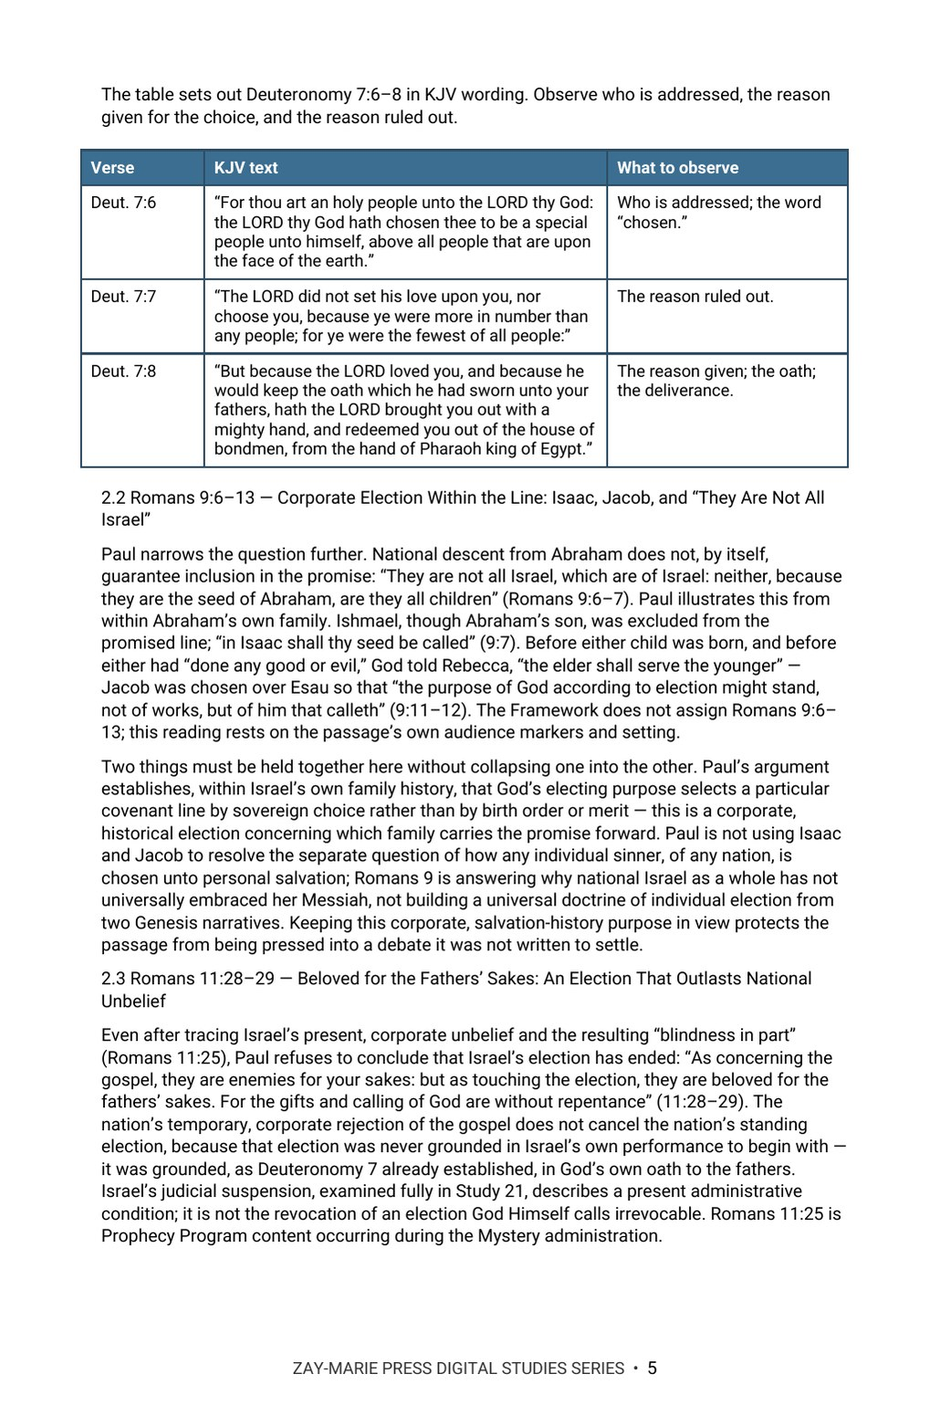
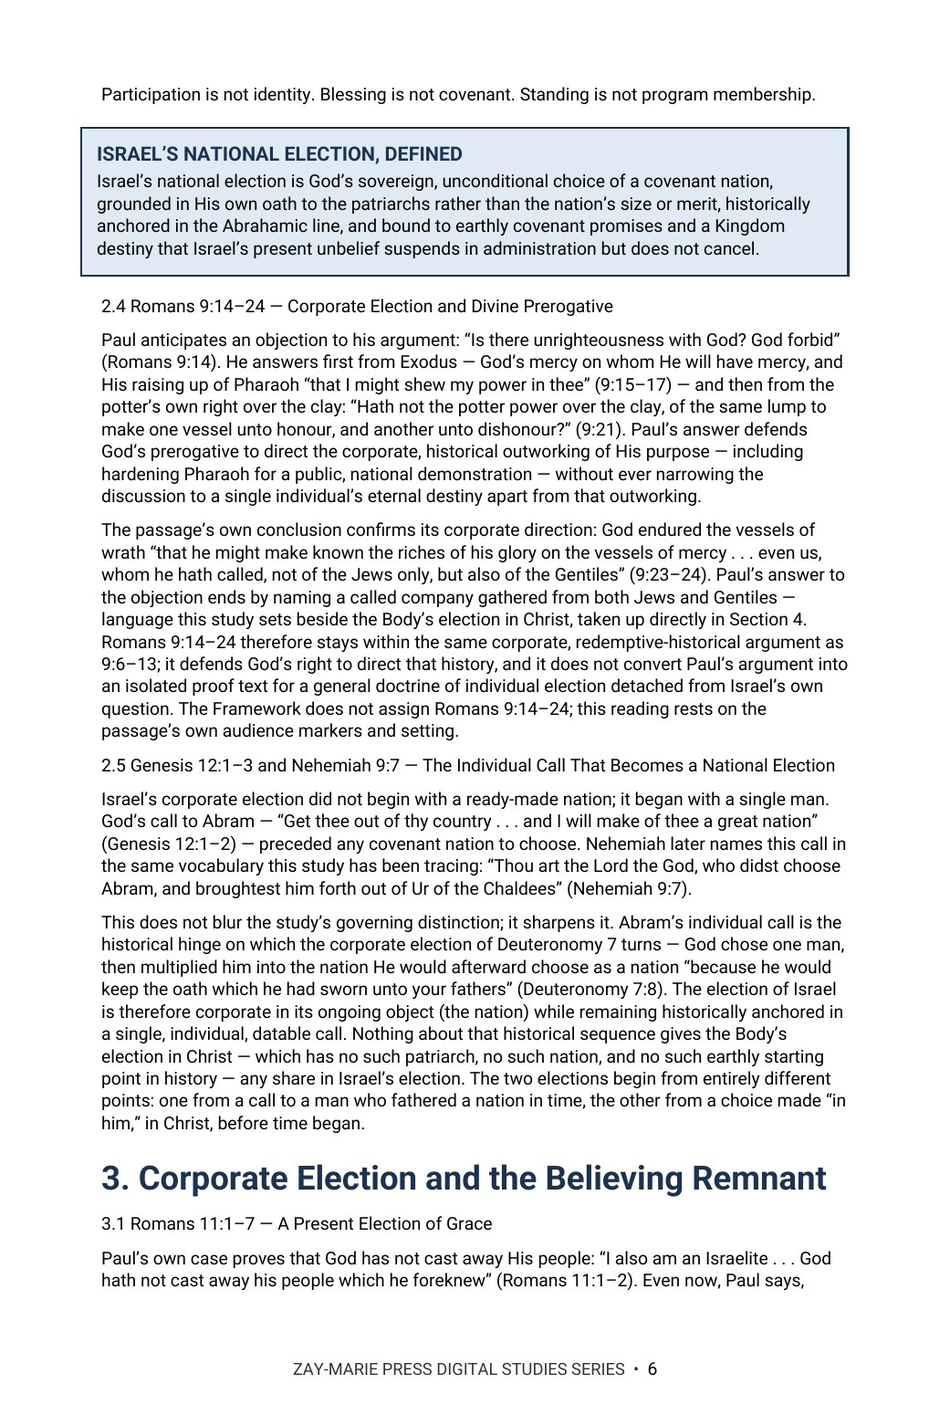
Study 50 retrofit: Romans 11 boundaries, standing sentences; preview page 5 re-rendered
Claude-Session: https://claude.ai/code/session_013kzJPyMkodVfrxEZGjk3me

Changed region(s): [[0.0615, 0.0615, 0.8915, 0.9219], [0.3074, 0.9526, 0.4918, 0.9834], [0.5226, 0.9526, 0.6455, 0.9834]]

diff --git a/CLAUDE.md b/CLAUDE.md
@@ -14,7 +14,7 @@ These are kept in the repo at `controlling-documents/` and are the current versi
 - **`controlling-documents/Zay-Marie_Press_Digital_Studies_Master_Standard_v1.43.pdf`** — Master Standard v1.43 (an editable `.docx` copy sits beside the PDF). Governs study structure, cover, PDF assembly, website package and publication (includes §16 Individual Study Preview Selection Standard). §16 fixes the preview set at exactly three pages: Table of Contents, What You Will Learn, and one further page of real substance that does not give away the study's thesis. As of v1.19, §2 (Forward Cover System) adds a Cover Art Brief step: Claude drafts a detailed written cover art description (image concept, composition, palette, lighting, symbolic content) for the publisher to hand to the illustrator, before the illustrator produces artwork — see Approval Checkpoint 3 below. As of v1.20, §6 (Body-Content Standard) fixes exact interior spacing values: body paragraphs 6pt space-after / 0pt space-before / 1.08 line spacing; Heading 1 14pt space-before / 8pt space-after; Heading 2 10pt space-before / 5pt space-after. As of v1.21, §9 (Content-Depth and Page-Length Standard) fixes the substantive-interior page count at exactly 15 pages, replacing the prior 13–17 page range; matching references updated in the Page-Count Control note (§3) and Stages 2 and 4 of the Study Development and Approval Workflow (§14). As of v1.22, §18 (About This Study — Related-Study Distinction Standard, originally added as §17 and renumbered by v1.24) requires a second paragraph in every study's About This Study section, placed before the "How These Studies Relate" box: it names the specific neighbouring studies a reader might confuse this one with, states what ground each one covers that this study doesn't (or vice versa), and closes with the single narrower question this study alone answers — see the "About This Study" bullet below. Governs new studies going forward; existing studies get it when reopened or when the publisher directs a retrofit. As of v1.23, §13 (Tables Symbols and Contrast Standard) changes the table-header treatment from dark navy to Slate Blue (#3B6E91) with high-contrast light text retained; the border-color cross-reference in the same section is updated to match. Applies to all studies going forward. As of v1.24, new §17 (Preview-Page Interpretive-Outcome Standard) codifies the publisher's 2026-09-28 preview-page conclusion-spoiler directive (see the section below) as a Master Standard requirement: preview pages must state interpretive outcomes and name the textual markers the reader will trace, never the study's doctrinal conclusion. Adding it renumbered the former §17/§18/§19 to §18 (About This Study), §19 (Locked Status), and §20 (Version History). As of v1.25 (publisher directive, 2026-09-28), §5 (Table of Contents Standard) requires Arabic numerals only — Roman numerals are never used in a Table of Contents — and a single flat list on one left-aligned axis: What You Will Learn in This Study, Introduction, the teaching sections numbered exactly as in the body, then Conclusion through Final Synthesis; Study Goal and Study Outline are not TOC entries. As of v1.26 and v1.27 (publisher directive, 2026-09-30), §8 (renamed Color and Typography Control) carries the Interior Typeface Standard: every Digital Study interior and Doctrinal Packet, headings included, is set in **Roboto** in four true faces (Regular, Italic, Bold, Bold Italic; static files; lining numerals), with no other or fallback font embedded. v1.26 first specified EB Garamond; the publisher replaced it with Roboto in v1.27 after a Study 2 test build. It applies to all studies past, present and future, and to Doctrinal Packets; Stages 3 and 4 of §14 require it and a `pdffonts` check. Existing studies move to it when reopened or when the publisher directs. The static Roboto files and the build recipe are in `fonts/` (see `fonts/README.md`); the Framework carries the rule as PAM Rule 6 and a dated Section 4 (continued) entry. The v1.26/v1.27 files were rebuilt from the publisher's v1.13 DOCX (Sections 1–2) plus the v1.25 text. As of v1.28 (publisher directive, 2026-09-30): §4 requires exactly five callouts per study, all boxed (light-blue box, 1 pt dark navy border, bold uppercase navy title; extra source callouts become body paragraphs with a bold run-in lead, wording unchanged); §10 places the copyright notice only in the end imprint, with no front copyright page; §13 makes table body rows plain white under Slate Blue headers. As of v1.29 (publisher directive, 2026-09-30), §5 sets Table of Contents entries at the body-paragraph spacing (6 pt after, 1.08 line spacing) as first shown in Study 5, for studies built from Study 6 forward; Studies 1–5 and 9 keep their current TOC spacing unless reopened. As of v1.30 (publisher directive, 2026-09-30), §6 sets Heading 1 (numbered major sections) at 12 pt space-before and 8 pt space-after, replacing 14 pt space-before, as compared side by side on Study 6 page 5; it applies to studies built from Study 6 forward, and Studies 1–5 and 9 (built at 14 pt) are not reopened for it. Heading 2 (10/5) and body paragraphs (6 pt after, 1.08) are unchanged. As of v1.31 (publisher directive, 2026-10-01), new §19 (Catalog Category Standard) fixes the five catalog categories, the ordered decision procedure, the precedents, the 71 final assignments and the cover-label forms (working copy and version history in `controlling-documents/Digital_Studies_Category_Standard_v1.1.md`); Locked Status and Version History moved to §20 and §21. As of v1.32 (publisher directive, 2026-10-01), the upper-right cover label must be the exact name of the study's catalog category (§2 Cover Architecture and §19 Cover Labels); the shortened and legacy labels RIGHT DIVISION, PROPHECY, DOCTRINE, INTERPRETATION and BIBLICAL DOCTRINE are retired and all 71 covers were re-lettered. As of v1.33 (publisher directive, 2026-10-01), new §20 (Doctrinal Drafting Standard) carries PAM Rules 7–10 from the Framework so settled rulings are applied without being asked again: identity wording ("the Israel of God" = believing Jews within the Body, Israel by identity; never "believing Israel" alone; never a remnant beside or outside the Body in the present administration; required clarifier "This speaks of identity, not program membership; the remnant is ethnic-covenantal, and believing Jews are gathered into the Body during the Mystery administration"; Gentiles participate spiritually, never called Israel or "spiritual Israel"); the anchoring-sentence rule for books the PAM does not assign (Hebrews, Revelation, James, 1 Peter, 2 John; Philippians, 1 Thessalonians, 2 Timothy; Gal 2:1–10 report-only); standing wording for the Acts divisions, "the 'one taken, one left' passages", Eph 2:14 "abolished for the Body", judgment and related rulings; and the review procedure (conforming wording is applied and noted in one line, and only a new or uncovered passage is reported for a ruling). Locked Status and Version History moved to §21 and §22. As of v1.34 (publisher directive, 2026-10-01), Rule 7 adds the overlap-period rule: Peter's believing company and the circumcision apostleship during Acts 9–28 may be described as continuing under the Prophecy Program only with the clarification "During the overlap, the circumcision apostleship ministers to Israel under the Prophecy Program; believing Jews are gathered into the Body through Paul's ministry, and this speaks of identity, not program membership" (program membership and corporate identity are not the same question; no believing Israelite is placed outside the Body after Acts 9). As of v1.35 (publisher directive, 2026-10-01), §20 adds Rule 11: Paul's fillings, signs and miraculous events in Acts 9–28 are overlap phenomena, reported from the text and not assigned to a single program; they occur in settings shaped by Israel's Prophecy Program, but Paul's participation does not convert them into Prophecy Program content or make them Mystery content (standing wording: "These are recorded in settings shaped by Israel's Prophecy Program, which remained operative throughout Acts 9–28 even as the Mystery Program began. Acts 9–28 is the overlap; where Paul or his companions are the ones filled or working signs, the study reports the text and does not assign the event to a single program."; Acts table column title "The Spirit's Activity Recorded in Acts"; speaker identity is not program identity, and historical participation is not doctrinal obligation). Rule 10 refers to Rules 1–9 and 11. As of v1.36 (publisher directive, 2026-10-01), §20 adds Rule 12: where the PAM does not assign a book or passage, the study may use the text for universal doctrinal truth without assigning the book to a program, and must include the anchoring sentence "The Framework does not assign this book; this reading rests on the passage's own audience markers and setting." (it extends Rule 8 to unassigned books and passages Rule 8 does not name); Rule 10 refers to Rules 1–9, 11 and 12. As of v1.43 (publisher directive, 2026-10-02), §20 Rule 14 adds the **reader-facing wording rule** (also written into Framework Rule 14): "firewall," "Olive Tree Firewall" and similar control labels are internal drafting terms and never appear in study text, website copy or Doctrinal Packets; studies state the boundaries in plain language (for example "Four boundaries govern the reading:"), and any term a study has not itself introduced and defined is treated the same way. Studies 9, 13, 35 and 36 were corrected on 2026-10-02. As of v1.42 (publisher directive, 2026-10-02), §20 Rule 14 adds the **Romans 11 Strong Firewall** as a standing rule for every Romans 11 treatment in every study (also written into Framework Rule 14): Romans 11 explains prophetic participation, not corporate identity, covenant membership or Mystery formation; the wild branch does not become Israel, enter Israel's covenants or become a natural branch; the olive tree is not the Body; standing triad "Participation is not identity. Blessing is not covenant. Standing is not program membership."; "Identity is fixed by divine program, not by metaphor."; "Salvation has come to the Gentiles" means salvation, not covenant, prophetic identity or Israel's program; four-point governing list (olive tree = prophetic blessing; Romans 11 Gentiles = prophetic participants; wild branches are not Body members; grafting changes participation, not identity); warning line on identity transfer; concurrency close ("Concurrency is operational, not transformational."). Depth: a study that treats Romans 11 at length carries the full firewall in the voice of Study 13 v2 (the reference text); a passing citation carries at least the four-point list and the triad; a mild clarification is not sufficient. Studies 9, 21, 35, 36 and others are brought to it when reopened or when the publisher directs. As of v1.41 (publisher directive, 2026-10-02), Rules 7 and 15 carry two approved standing sentences for the retrofit: overlap — "During the overlap, the circumcision apostleship ministers to Israel under the Prophecy Program, and Paul's gospel forms the Body; the two operate concurrently and never merge, transfer or absorb one another." (replaces the withdrawn "gathered into the Body" sentence); Galatians 3 — "The seed is prophetic fulfillment in Christ; the Body receives blessing through Christ alone, not through participation in the Abrahamic covenant." (replaces all older Abrahamic-participation language). As of v1.40 (publisher directive, 2026-10-02), Rules 7 and 17 add the ruling that a Jewish member of the Body is not Israel: Body by identity, new creation by ontology, non-Israel by corporate identity, non-prophetic by program membership, non-covenantal by blessing structure, heavenly by destiny; ethnicity is a historical fact with no covenantal or programmatic force once a person is in the Body. The Rule 7 line "Israel remains Israel; the ethnic distinction is kept" is replaced by "Israel remains Israel, and the Body is not Israel"; the Framework identity sections (§V, PAM definition 2) carry it too. As of v1.39 (publisher directive, 2026-10-02), §20 adds Rule 17 (The remnant and the Body during Acts 9–28), also written into the Framework §XIX: the remnant never becomes the Body and stays outside the Body, the Mystery Program, the heavenly calling and Pauline identity; the Body is formed only by Paul's gospel from Acts 9, is gathered in on belief and is not Israel or the remnant; no shared identity, membership, covenant, gospel, hope, Spirit ministry or destiny; the standing summary sentence ("During Acts 9–28, the remnant remains Israel's prophetic believing company, and the Body remains the Mystery new creation. They coexist historically but never merge in identity, membership, calling, covenant, gospel, hope, or destiny. Concurrency is operational, not transformational.") and the one-sentence relationship rule are used wherever the relationship is stated; Rule 10 now reads "Rules 1–9 and 11–17". As of v1.38 (publisher directive, 2026-10-02), §20 (Doctrinal Drafting Standard) is amended and extended to carry the Framework's doctrinal upgrade: Rules 7–10 are rewritten and Rules 13–16 are added (see the Framework entry above for the points and the withdrawn wordings); Rule 10 now reads "Rules 1–9 and 11–16"; Rule 8 no longer lists Revelation as unassigned. As of v1.37 (publisher directive, 2026-10-02), a new "Study 52 Reference Standard" subsection in §6 makes Study 52 (Sonship and Adoption) the **golden standard** for the format, structure and blue/black type balance of every Digital Study from Study 53 forward: navy (#1B3350) only on major-section headings (Roboto Bold 17 pt), callout titles (10 pt bold caps) and the "Study Outline" sub-heading (12 pt bold); everything else black Roboto Regular 9 pt; numbered subsections (1.1, 1.2 …) are body-weight black lines at body spacing, not navy headings (as in Studies 50, 51 and 52); about 1–2% of interior characters navy; the section order, five boxed callouts, KJV tables (Verse / KJV text / What to observe), Scripture-Tracing, Review, Teaching Outline, Guided Further Study, Final Synthesis and single end imprint on a 16-page build. Studies 1–51 are NOT retrofitted and stay as published; build every new study to Study 52's final approved PDF/DOCX as the visual reference, and do not set subsections in navy. The §6 Heading 2 line was clarified (10/5 applies to unnumbered sub-headings such as "Study Outline"). See §22 Version History in the document itself.
 - **`controlling-documents/Digital_Studies_Relationship_Map_v1.39.md`** — records each study's distinct subject, its related studies, the eight priced six-study collections, the Paul's Missionary Journeys cross-reference map, and the five primary catalog categories (currently version 1.39, covers Studies 1–71; update it as new studies publish, bump the version number, rename the file to match, and log the change in its own version-history table — mirroring the Master Standard's `_vX.Y` filename convention). Check a proposed topic against it before recommending or writing a new study. (2026-09-28: the file was missing from this repo despite this note referencing it; replaced from the publisher's copy and bumped v1.15→v1.25 in the same pass. If this note ever again points to a version not present under `controlling-documents/`, ask the publisher for a copy rather than proceeding without the check.)
 - **`controlling-documents/Digital_Studies_Category_Standard_v1.1.md`** — FINAL and binding (publisher, 2026-10-01): the rules for the five primary catalog categories (Foundations, Israel & Prophecy, Body of Christ, Passages, Doctrinal Themes), the ordered decision procedure for new studies, the precedents, all 71 fixed assignments, and the cover-label form for each category. Read it before placing any card or cover label. Do not ask the publisher where a study belongs; apply the procedure and state the result. Only the publisher changes a ruling; then bump this Standard's version and filename, re-letter the cover, and update the Relationship Map.
-- **`controlling-documents/Doctrinal_Upgrade_Retrofit_Plan_v1.13.md`** — working tracker for retrofitting Studies 1–59 to the 2026-10-02 doctrinal upgrade (Framework/PAM v1.1, Master Standard v1.40, Rules 7–17): withdrawn-wording search keys, impact tiers, waves and the per-study method. Read it before continuing the retrofit in any session; update status, bump the version and rename the file as work proceeds.
+- **`controlling-documents/Doctrinal_Upgrade_Retrofit_Plan_v1.14.md`** — working tracker for retrofitting Studies 1–59 to the 2026-10-02 doctrinal upgrade (Framework/PAM v1.1, Master Standard v1.40, Rules 7–17): withdrawn-wording search keys, impact tiers, waves and the per-study method. Read it before continuing the retrofit in any session; update status, bump the version and rename the file as work proceeds.
 - **`controlling-documents/Doctrinal_Packet_Standard_v0.3.md`** — Doctrinal Packet Standard (DRAFT; §7 approved). Governs the separate Doctrinal Packets product strand (5-page interpretive PDFs per Bible book — a print-friendly cover as page 1 plus 4 content pages, $2.99, KJV, pilot: Genesis, live at `packet-genesis.html`, hub `doctrinal-packets.html`; site pages say "5 Pages", cover styles live in `packets.css`, Old Testament blue and New Testament soft pale green, hub listed in Bible order). **Preview rule (publisher directive, 2026-09-29, packets only):** previews show about one page's worth in two cropped views (top of page 1 through the anchor texts; the chart section) — never the exegesis, architecture, Mystery contrast, logic chain, outline, or closing. Master Standard §16/§17 still govern Digital Studies. Bump the version and rename the file as the Standard is finalized.
 - **`controlling-documents/Preview_Page_Spoiler_Retrofit_Audit_v1.4.md`** — working tracker for the Studies 1–60 preview-page conclusion-spoiler retrofit (see the section below). Read it before continuing that audit in any session; update its status fields and changelog, bump the version, and rename the file to match as the audit proceeds — same `_vX.Y` convention as the other controlling documents. As of v1.1, the website-side half was DONE: all 60 studies' "What You'll Study" text was judged against the rule (methodology documented in the file) and 22 points across 11 studies were rewritten and pushed; an unrelated Study 22 content bug (Study 21's content had leaked into it) was also found and fixed. As of v1.2, the publisher supplied Studies 1–60's interior production PDFs and the interior-PDF half was also surveyed (read-only): 10 studies (37, 41, 45, 47, 48, 49, 51, 52, 53, 54) were found to have at least one interior "What You Will Learn" violation, 50 studies were confirmed compliant, and the orphaned `assets/study-45-sanctification-under-grace.docx` (removed from the repo per the publisher in v1.0) was confirmed word-for-word identical to Study 45's actual production interior PDF content. As of v1.3, the publisher supplied editable DOCX sources for all 10 violating studies; all 15 violating points were rewritten and approved, delivered as corrected final PDFs, and — along the way — a second defect was found and fixed (Studies 47 and 48's source DOCX still had an unintegrated cover placeholder despite both being long-published live with real covers; fixed by inserting the existing approved cover art). The website's "What You Will Learn" preview image (`study-NN-page-3.jpg`) was regenerated from the corrected content for all 10 studies and pushed to `main` (commit `cea1859`), verified against a fresh clone. **The website side of this audit is now fully compliant for all 60 studies.** Outstanding: the publisher's purchasable interior PDF files themselves have corrected versions delivered, but distribution to existing purchasers was decided by the publisher on 2026-09-29: silent swap of the files behind the existing downloads, no reissue notice (recorded in the v1.4 changelog entry; the product files are not in this repo).
 

diff --git a/controlling-documents/Doctrinal_Upgrade_Retrofit_Plan_v1.14.md b/controlling-documents/Doctrinal_Upgrade_Retrofit_Plan_v1.14.md
@@ -27,7 +27,7 @@ Working tracker for correcting published studies to the Framework/PAM v1.1, Mast
 | 37 What Does Paul Mean by "New Creation"? | Gal 6:16 sentence | DONE 2026-10-02 (v1.5): interior corrected in place (16 pp, Roboto); website, catalog, connections and previews verified clean and unchanged |
 | 49 The Resurrections of Scripture | clarifier ×4 in DOCX | DONE 2026-10-02 (v1.10): interior corrected (17 pp, Roboto; publisher scripts for Sections 5, 6, 7, 8, 10, 12 integrated); website page count 16→17, previews 2, 3, 7 re-rendered |
 | 41 Kingdom of God or Kingdom of Heaven? | clarifier added | DONE 2026-10-02 (v1.11): interior corrected (16 pp, Roboto; publisher scripts for Sections 5, 6, 8, 9, 10 integrated; Romans 11:25 boundary sentence and triad added); website text unchanged, TOC preview (page 2) re-rendered |
-| 50 Election | clarifier + overlap sentence | pending |
+| 50 Election | clarifier + overlap sentence | DONE 2026-10-02 (v1.14): clarifier replaced (2 places, Rule 17 sentence) and overlap sentence replaced (1 Peter passage); Romans 11 boundaries added (3.1 paragraph, 2.3 triad, olive-tree four-point list in Guided Further Study); 16 pp, Roboto; website unchanged except preview image study-50-page-5.jpg re-rendered |
 | 55 Reconciled to God | clarifier + overlap sentence | pending |
 | 47 Giving Under Grace | overlap sentence (4 hits) | DONE 2026-10-02 (v1.12): interior corrected (16 pp, Roboto); Romans 15:27 participation sentence added (publisher-approved); website unchanged, previews unchanged |
 | 48 The Christian Household | overlap sentence (1 hit in final) | DONE 2026-10-02 (v1.13): overlap sentence replaced with the standing sentence (Guided Further Study, 1 Peter 3); Gal 3:28 line now "The PAM makes no assignment for Galatians 3:28; …"; 16 pp, Roboto; website and previews unchanged |
@@ -72,3 +72,4 @@ Working tracker for correcting published studies to the Framework/PAM v1.1, Mast
 - v1.11 (2026-10-02): Study 41 retrofit complete (Wave 2 order: 41 done; next 47). Withdrawn clarifier removed; Acts 28:31 carries the no-transfer line; Body absent from Revelation; publisher replacement scripts for Sections 5, 6, 8, 9, 10 integrated; Romans 11:25 passing citation carries the boundary sentence plus triad (publisher-approved; no olive-tree bullets since the study does not treat the olive tree). 16 pp; website page count unchanged, preview page 2 re-rendered.
 - v1.12 (2026-10-02): Study 47 retrofit complete: withdrawn overlap sentence replaced by the standing sentence in four places; new Romans 15:27 sentence (participation in blessing, not identity; does not place the Body in Israel's covenants or make it Israel) added to Section 12; 16 pp; website and previews unchanged. Next: Study 48.
 - v1.13 (2026-10-02): Study 48 retrofit complete: withdrawn overlap sentence replaced by the standing sentence (one place; the earlier "5 hits" estimate was high); Galatians 3:28 anchoring sentence corrected to "The PAM makes no assignment for Galatians 3:28"; no Romans 11 or Revelation content; 16 pp; website and previews unchanged. Next: Study 50.
+- v1.14 (2026-10-02): Study 50 retrofit complete: withdrawn clarifier removed (Section 3.1, Key Distinctions) with the Rule 17 summary sentence; standing overlap sentence in the 1 Peter passage; Romans 11 treated at depth in plain language (Section 3.1 participation-not-identity paragraph, Section 2.3 triad plus membership-unchanged clause, four-point olive-tree list); no Gal 3:28 sentence exists in this study; 16 pp. Next: Study 51.

diff --git a/controlling-documents/Digital_Studies_PAM_Audit_v1.107.md b/controlling-documents/Digital_Studies_PAM_Audit_v1.107.md
@@ -336,3 +336,4 @@ Study 15 PDF not yet supplied. Typography: none of Studies 2, 3, 6, 8 is in EB G
 - v1.104 (2026-10-02): Study 41 retrofitted: 'gathered into the Body / ethnic-covenantal' clarifier removed; Acts 28:31 no-transfer line; overlap and Body-absent-from-Revelation lines; Sections 5, 6, 8, 9, 10 per publisher scripts; Romans 11:25 boundary sentence and triad.
 - v1.105 (2026-10-02): Study 47 retrofitted: withdrawn 'gathered into the Body / identity, not program membership' overlap sentence replaced with the standing overlap sentence (4 places); Romans 15:25–27 'partakers of their spiritual things' treated as participation in blessing, not identity (publisher-approved wording; candidate for a Framework note if the publisher wants it recorded).
 - v1.106 (2026-10-02): Study 48 retrofitted: withdrawn 'gathered into the Body / identity, not program membership' overlap sentence replaced with the standing overlap sentence (1 place, 1 Peter 3 bullet); Galatians 3:28 anchoring sentence changed from 'The Framework does not assign' to 'The PAM makes no assignment for Galatians 3:28' (publisher ruling, wording only).
+- v1.107 (2026-10-02): Study 50 retrofitted: withdrawn 'gathered into the Body / ethnic-covenantal' clarifier removed (2 places) and overlap sentence replaced with the standing sentence (1 place); Romans 11 boundaries added (remnant = Israel; participation not identity; triad; four-point olive-tree list), publisher-approved.
